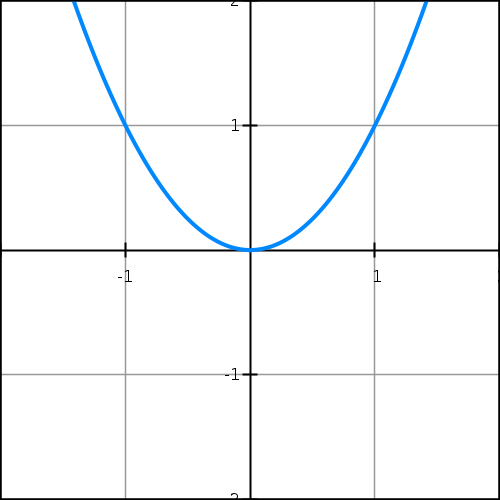
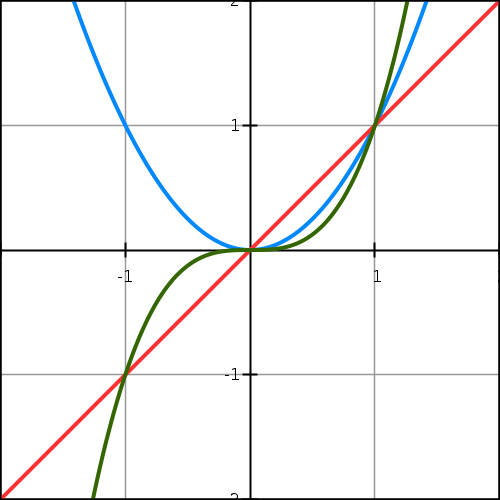
update: add some pic

diff --git a/papers/2014-11-25-bezier-easing实现平滑的插值.md b/papers/2014-11-25-bezier-easing实现平滑的插值.md
@@ -44,7 +44,17 @@ function Fn(t, duration, start, end) {
 }
 ```
 
-其实这里的原理很简单，`progress`是一个[0, 1]之间的数值，那么我们对他进行一个平方就会得到一个开始平缓然后逐渐陡峭的曲线。如果仔细看你会发现这就是一个插值的过程，在`start`和`end`之间进行插值，插值的比例根据不同的函数来进行曲线调整。
+其实这里的原理很简单，`progress`是一个[0, 1]之间的数值，那么我们对他进行一个平方就会得到一个开始平缓然后逐渐陡峭的曲线。
 
-用来调整插值比例的曲线有很多种，例如刚才说的就是`y = x^2`在x为[0, 1]之间时候的曲线，还有一些其他的数学曲线。例如运用的最为广泛的`cubic-bezier`曲线。
+> 红色为`y=x`函数的曲线，蓝色为`y = x^2`函数的曲线，绿色为`y=x^3`函数的曲线
+
+![y=x^2](https://jasonchen1982.github.io/blog/source/math/y=x^2.png)
+
+如果仔细看你会发现这就是一个插值的过程，利用该曲线在`start`和`end`之间进行插值，插值的比例根据不同的函数来进行曲线平滑的调整。插值的进度一般使用`X轴`作为输入（可视为时间进度），`Y轴`作为输出值（也就是实际使用的插值比例）。
+
+用来调整插值比例的曲线有很多种，除了刚才说的`y = x^2`或者`y=sqrt(x)`这些曲线，还有一些其他的数学曲线。例如运用的最为广泛的`cubic-bezier`曲线来实现同样的插值效果，并且插值效果更丰富。
+
+再开始之前我们先来看看`cubic-bezier`曲线长什么样
+
+
 
